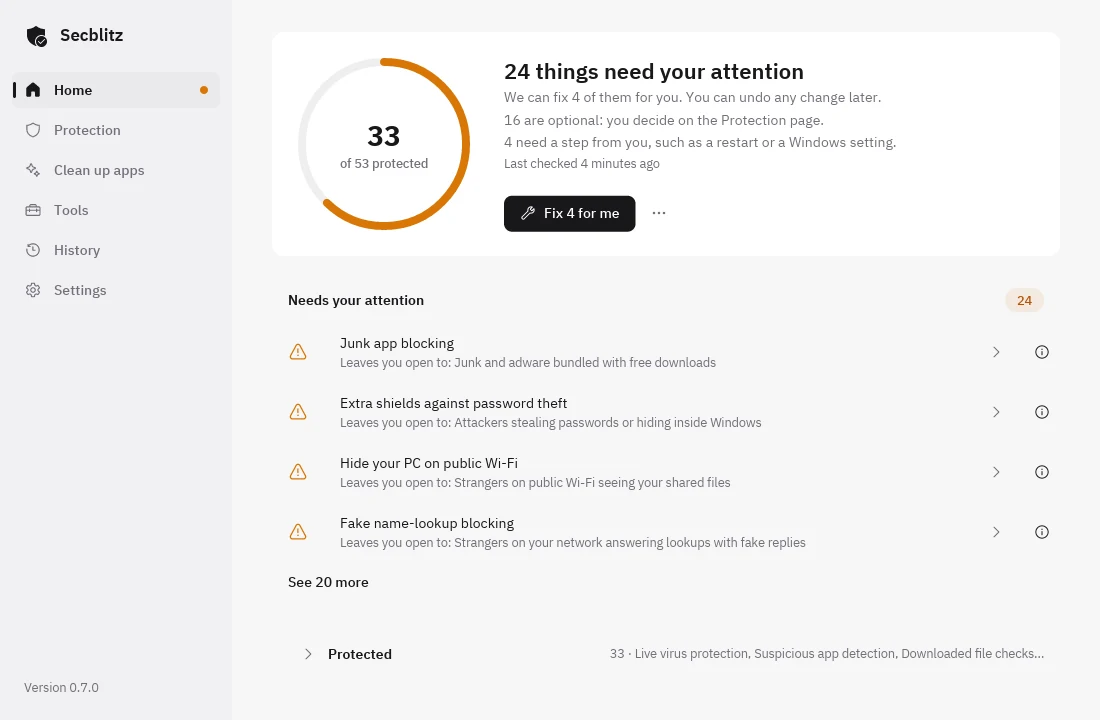
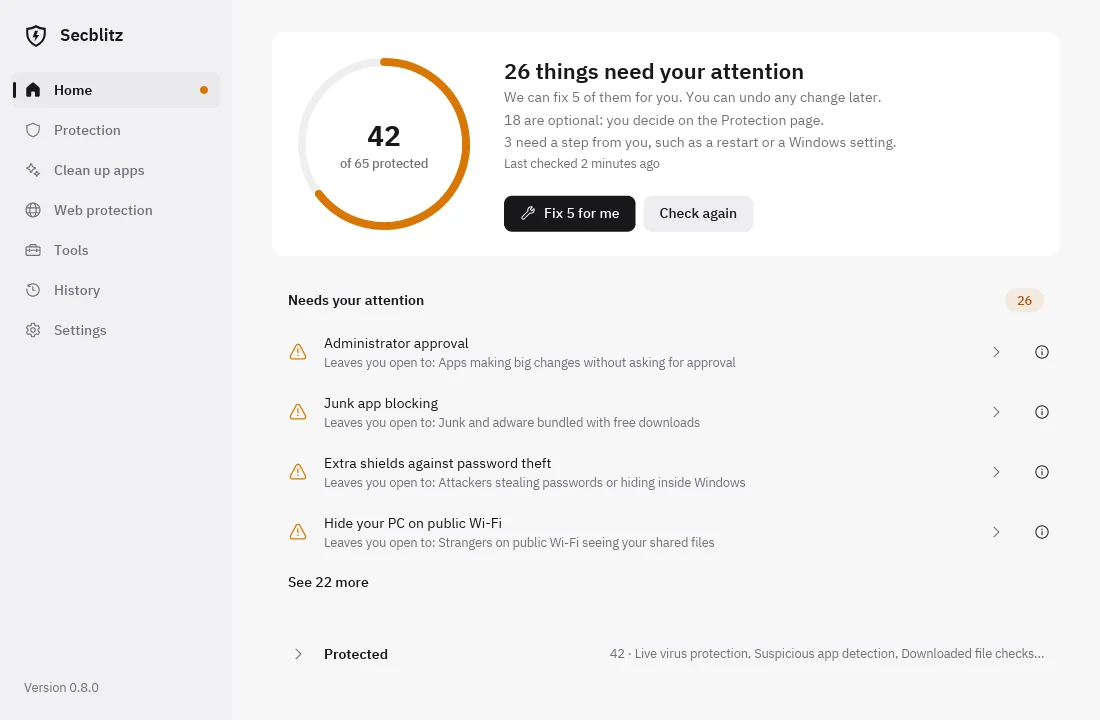
Release 0.8.0
Adds a dated changelog, website copy for web protection and app
removal, and a new favicon and screenshots.

diff --git a/website/index.html b/website/index.html
@@ -14,7 +14,7 @@
   <meta property="og:title" content="Secblitz: security, privacy and cleanup for your PC">
   <meta property="og:description" content="One app that keeps your Windows PC secure, private and clean. No technical knowledge needed.">
   <meta property="og:url" content="https://secblitz.lol/">
-  <meta property="og:image" content="https://secblitz.lol/assets/preview-b081691b149a.webp">
+  <meta property="og:image" content="https://secblitz.lol/assets/preview-92912b03eb97.webp">
   <meta property="og:image:alt" content="The Secblitz home screen">
   <link rel="icon" href="assets/favicon.svg" type="image/svg+xml">
   <link rel="preload" href="assets/fonts/ibm-plex-sans-400.woff2" as="font" type="font/woff2" crossorigin>
@@ -26,7 +26,7 @@
 <body>
   <!-- icons:start (generated by scripts/build-site-assets.py from src/gui/icons.rs) -->
   <svg class="sprite" width="0" height="0" aria-hidden="true">
-    <symbol id="i-brand" viewBox="0 0 24 24"><path d="M3 5.75C3 5.33579 3.33579 5 3.75 5C6.41341 5 9.00797 4.05652 11.55 2.15C11.8167 1.95 12.1833 1.95 12.45 2.15C14.992 4.05652 17.5866 5 20.25 5C20.6642 5 21 5.33579 21 5.75V11C21 11.3381 20.9865 11.6701 20.9595 11.9961C19.9577 11.3651 18.7715 11 17.5 11C13.9101 11 11 13.9101 11 17.5C11 19.151 11.6156 20.6583 12.6297 21.8048C12.5126 21.8531 12.3944 21.9007 12.2749 21.9478C12.0982 22.0174 11.9018 22.0174 11.7251 21.9478C5.95756 19.6757 3 16.0012 3 11V5.75ZM23 17.5C23 14.4624 20.5376 12 17.5 12C14.4624 12 12 14.4624 12 17.5C12 20.5376 14.4624 23 17.5 23C20.5376 23 23 20.5376 23 17.5ZM20.8536 15.1464C21.0488 15.3417 21.0488 15.6583 20.8536 15.8536L16.8536 19.8536C16.6583 20.0488 16.3417 20.0488 16.1464 19.8536L14.1464 17.8536C13.9512 17.6583 13.9512 17.3417 14.1464 17.1464C14.3417 16.9512 14.6583 16.9512 14.8536 17.1464L16.5 18.7929L20.1464 15.1464C20.3417 14.9512 20.6583 14.9512 20.8536 15.1464Z" fill="currentColor"/></symbol>
+    <symbol id="i-brand" viewBox="0 0 24 24"><path fill-rule="evenodd" d="M12 1Q7.95 3.66 2.14 3.91L2.14 9.34Q2.14 18.45 12 23Q21.86 18.45 21.86 9.34L21.86 3.91Q16.05 3.66 12 1ZM12 3.66Q8.59 5.68 4.29 5.93L4.29 9.47Q4.29 16.8 12 20.72Q19.71 16.8 19.71 9.47L19.71 5.93Q15.41 5.68 12 3.66ZM10.99 6.74L13.9 6.74L12.44 10.95L15.21 10.95L10.41 17.64L11.43 13.28L8.66 13.28Z" fill="currentColor"/></symbol>
     <symbol id="i-shield-check" viewBox="0 0 24 24"><path d="M3 5.75C3 5.33579 3.33579 5 3.75 5C6.41341 5 9.00797 4.05652 11.55 2.15C11.8167 1.95 12.1833 1.95 12.45 2.15C14.992 4.05652 17.5866 5 20.25 5C20.6642 5 21 5.33579 21 5.75V11C21 11.3381 20.9865 11.6701 20.9595 11.9961C20.5062 11.7106 20.0152 11.4795 19.4955 11.3121C19.4985 11.2087 19.5 11.1047 19.5 11V6.47793C16.9227 6.32585 14.4192 5.38829 12 3.67782C9.58084 5.38829 7.07735 6.32585 4.5 6.47793V11C4.5 15.1488 6.83178 18.2214 11.625 20.2846C11.8882 20.839 12.2276 21.3503 12.6297 21.8048C12.5126 21.8531 12.3944 21.9007 12.2749 21.9478C12.0982 22.0174 11.9018 22.0174 11.7251 21.9478C5.95756 19.6757 3 16.0012 3 11V5.75ZM23 17.5C23 20.5376 20.5376 23 17.5 23C14.4624 23 12 20.5376 12 17.5C12 14.4624 14.4624 12 17.5 12C20.5376 12 23 14.4624 23 17.5ZM20.8536 15.1464C20.6583 14.9512 20.3417 14.9512 20.1464 15.1464L16.5 18.7929L14.8536 17.1464C14.6583 16.9512 14.3417 16.9512 14.1464 17.1464C13.9512 17.3417 13.9512 17.6583 14.1464 17.8536L16.1464 19.8536C16.3417 20.0488 16.6583 20.0488 16.8536 19.8536L20.8536 15.8536C21.0488 15.6583 21.0488 15.3417 20.8536 15.1464Z" fill="currentColor"/></symbol>
     <symbol id="i-scan" viewBox="0 0 24 24"><path d="M12 2C17.5228 2 22 6.47715 22 12C22 17.5228 17.5228 22 12 22C6.47715 22 2 17.5228 2 12C2 6.47715 6.47715 2 12 2ZM15.2502 14.3322L15.2115 14.4042L15.1479 14.4954L10.3911 20.3479C10.9121 20.4478 11.4499 20.5 12 20.5C14.171 20.5 16.1518 19.6861 17.6541 18.3468L15.57 13.8062C15.4767 13.9901 15.3696 14.1659 15.2502 14.3322ZM4.4903 15.9854C5.42691 17.7466 6.96494 19.1392 8.83046 19.8894L11.991 16L11.8004 15.9951L11.669 15.9865L4.4903 15.9854ZM20.1301 9.51192H15.1322C15.2138 9.61455 15.2905 9.72128 15.3619 9.83176C15.3864 9.85886 15.4088 9.8889 15.4291 9.92091L15.4778 10.0105L15.5168 10.0926C15.6029 10.251 15.6786 10.4158 15.743 10.5862L18.7588 17.1552C19.8511 15.7253 20.5 13.9384 20.5 12C20.5 11.1343 20.3706 10.2989 20.1301 9.51192ZM3.5 12C3.5 12.8649 3.62919 13.6997 3.86932 14.486H8.86618C8.7844 14.3831 8.70759 14.276 8.6361 14.1652L8.50085 13.9432L4.88651 7.34546C4.00985 8.68254 3.5 10.2817 3.5 12ZM10.0198 10.4737L9.9755 10.5454C9.95359 10.5796 9.92937 10.6114 9.90318 10.6407C9.64761 11.0317 9.5 11.4986 9.5 12C9.5 13.2943 10.4835 14.3588 11.744 14.487H12.256C13.5165 14.3588 14.5 13.2943 14.5 12C14.5 10.6985 13.5055 9.62934 12.235 9.5109L11.8623 9.51285L11.8043 9.50755C11.0785 9.56375 10.4396 9.92987 10.0198 10.4737ZM12 3.5C9.60862 3.5 7.4479 4.48753 5.90339 6.07704L8.30536 10.4644C8.43215 10.1597 8.59554 9.87405 8.79004 9.61292L12.6939 3.52791C12.465 3.50942 12.2336 3.5 12 3.5ZM11.5942 8.02033C11.7277 8.00689 11.863 8 12 8C12.1026 8 12.2043 8.00386 12.305 8.01146L19.5086 8.01265C18.4758 6.07167 16.7123 4.57858 14.5851 3.90024L14.2928 3.81283L11.5942 8.02033Z" fill="currentColor"/></symbol>
     <symbol id="i-wrench" viewBox="0 0 24 24"><path d="M11.0002 7.5C11.0002 4.46243 13.4627 2 16.5002 2C17.267 2 17.999 2.15735 18.6641 2.44223C18.8929 2.54023 19.0582 2.74534 19.1053 2.98974C19.1524 3.23414 19.0751 3.48599 18.8991 3.66198L16.3111 6.25L17.7505 7.68934L20.3384 5.10142C20.5144 4.92542 20.7663 4.8482 21.0107 4.8953C21.2551 4.94241 21.4602 5.10771 21.5582 5.33652C21.8429 6.00153 22.0002 6.73337 22.0002 7.5C22.0002 10.5376 19.5378 13 16.5002 13C16.058 13 15.6272 12.9477 15.214 12.8486L6.90165 21.1609C5.78033 22.2823 3.96231 22.2823 2.84099 21.1609C1.71967 20.0396 1.71967 18.2216 2.84099 17.1003L11.1523 8.78899C11.0528 8.37496 11.0002 7.94322 11.0002 7.5ZM16.5002 3.5C14.2911 3.5 12.5002 5.29086 12.5002 7.5C12.5002 7.94506 12.5726 8.37169 12.7057 8.76964C12.7959 9.0393 12.7258 9.33677 12.5248 9.53783L3.90165 18.1609C3.36612 18.6965 3.36612 19.5648 3.90165 20.1003C4.43718 20.6358 5.30546 20.6358 5.84099 20.1003L14.465 11.4763C14.6659 11.2754 14.9632 11.2053 15.2327 11.2952C15.6301 11.4279 16.056 11.5 16.5002 11.5C18.7094 11.5 20.5002 9.70914 20.5002 7.5C20.5002 7.35886 20.4929 7.21955 20.4787 7.08239L18.6344 8.92678C18.1462 9.41493 17.3547 9.41493 16.8666 8.92678L15.0737 7.13388C14.5855 6.64573 14.5855 5.85427 15.0737 5.36612L16.9183 3.52153C16.781 3.5073 16.6415 3.5 16.5002 3.5Z" fill="currentColor"/></symbol>
@@ -83,7 +83,7 @@
         <h1 id="hero-title">A safer PC,<br>without the headaches.</h1>
         <p class="lead">Security, privacy and cleanup for Windows, all in one app. Secblitz checks your PC, tells you in plain language what needs fixing, and fixes it when you say yes. No technical knowledge needed.</p>
         <div class="cta">
-          <a class="button" href="downloads/secblitz-0.7.0-windows-x64-setup.exe" download>
+          <a class="button" href="downloads/secblitz-0.8.0-windows-x64-setup.exe" download>
             <svg class="icon" aria-hidden="true"><use href="#i-download"/></svg>Download for Windows
           </a>
           <a class="button button-quiet" href="#how">See how it works</a>
@@ -103,7 +103,7 @@
         <li><svg class="icon" aria-hidden="true"><use href="#i-shield-check"/></svg><span><strong>You stay in control.</strong> Secblitz never changes anything without asking you first.</span></li>
         <li><svg class="icon" aria-hidden="true"><use href="#i-undo"/></svg><span><strong>Every change can be undone.</strong> Your original settings are saved before anything changes.</span></li>
         <li><svg class="icon" aria-hidden="true"><use href="#i-eye-off"/></svg><span><strong>Your data stays on your PC.</strong> No account, no ads and no tracking.</span></li>
-        <li><svg class="icon" aria-hidden="true"><use href="#i-check-circle"/></svg><span><strong>Built on Windows protection.</strong> It turns on the security Windows already has instead of adding more software.</span></li>
+        <li><svg class="icon" aria-hidden="true"><use href="#i-check-circle"/></svg><span><strong>Built on Windows protection.</strong> It turns on the security Windows already has, instead of replacing it.</span></li>
       </ul>
     </section>
 
@@ -218,6 +218,7 @@
         <p>The everyday tasks that keep a PC secure and running well, in one place.</p>
       </div>
       <ul class="rows">
+        <li><svg class="icon" aria-hidden="true"><use href="#i-globe"/></svg><div><h3>Web protection</h3><p>Block ads, trackers and known dangerous websites in every browser and app on your PC. If a site you trust is blocked, pause it for an hour.</p></div></li>
         <li><svg class="icon" aria-hidden="true"><use href="#i-sparkles"/></svg><div><h3>Clean up apps</h3><p>Remove apps that came with Windows and that you don't use. Secblitz keeps a copy of each one, so you can bring it back at any time, even without internet.</p></div></li>
         <li><svg class="icon" aria-hidden="true"><use href="#i-bug"/></svg><div><h3>Virus scan and protection updates</h3><p>Run a Microsoft Defender scan and update its virus definitions without opening Windows Security.</p></div></li>
         <li><svg class="icon" aria-hidden="true"><use href="#i-wrench"/></svg><div><h3>Repair Windows</h3><p>Find and repair damaged Windows system files with Windows' built-in tools.</p></div></li>
@@ -256,11 +257,15 @@
         </details>
         <details>
           <summary>Is my data private?<svg class="icon chevron" aria-hidden="true"><use href="#i-chevron-down"/></svg></summary>
-          <p>Yes. Your results, history and settings stay on your PC. There's no account, no ads and no tracking. Secblitz only connects to the internet to update itself and to download things you ask for.</p>
+          <p>Yes. Your results, history and settings stay on your PC. There's no account, no ads and no tracking. Secblitz only connects to the internet to update itself and to download things you ask for. With web protection on, it also downloads its block lists once a day.</p>
         </details>
         <details>
           <summary>How does it update?<svg class="icon chevron" aria-hidden="true"><use href="#i-chevron-down"/></svg></summary>
           <p>Automatically, in the background. Every update is signed, and Secblitz verifies the signature before installing it. It never closes while you're using it and never restarts your PC.</p>
+        </details>
+        <details>
+          <summary>What happens if I remove Secblitz?<svg class="icon chevron" aria-hidden="true"><use href="#i-chevron-down"/></svg></summary>
+          <p>You choose. Keep the safer settings Secblitz made, or put everything back the way it was before, including the apps you removed. Either way, Secblitz removes itself completely.</p>
         </details>
         <details>
           <summary>Which languages and Windows versions work?<svg class="icon chevron" aria-hidden="true"><use href="#i-chevron-down"/></svg></summary>
@@ -274,18 +279,18 @@
         <svg class="download-mark" aria-hidden="true"><use href="#i-brand"/></svg>
         <h2 id="download-title">Check your PC for free.</h2>
         <p>The check takes about a minute and doesn't change anything.</p>
-        <a class="button" href="downloads/secblitz-0.7.0-windows-x64-setup.exe" download>
+        <a class="button" href="downloads/secblitz-0.8.0-windows-x64-setup.exe" download>
           <svg class="icon" aria-hidden="true"><use href="#i-download"/></svg>Download for Windows
         </a>
         <p class="meta">Free · Windows 11, 64-bit</p>
         <details class="download-details">
           <summary>Download details<svg class="icon chevron" aria-hidden="true"><use href="#i-chevron-down"/></svg></summary>
           <div class="details-body">
-            <p>Version 0.7.0 · 8.2 MB installer</p>
+            <p>Version 0.8.0 · 8.2 MB installer</p>
             <p>The first time you run it, Windows may warn that the publisher is unknown. Select More info, then Run anyway. The checksum below lets you confirm the file is the one we published.</p>
             <div class="hash">
               <span class="hash-label">SHA-256</span>
-              <code id="sha">2d01dba23210c797c9f99bc56c9b4c72a0d6325905288786564570e9bc21770b</code>
+              <code id="sha">0000000000000000000000000000000000000000000000000000000000000000</code>
               <button type="button" class="button button-quiet button-small" id="copy-sha" data-copy="sha">Copy</button>
             </div>
           </div>

diff --git a/scripts/build-site-assets.py b/scripts/build-site-assets.py
@@ -8,7 +8,8 @@ Run: python3 scripts/build-site-assets.py [--check]
   the site always uses the exact glyphs the app draws.
 * Font: IBM Plex Sans (assets/fonts, SIL OFL) is subset to Latin and saved as
   WOFF2 under website/assets/fonts.
-* Favicon: the app's window icon (white shield and tick on a #18181B tile).
+* Favicon: the app's small-size icon (white shield and bolt on a #18181B tile),
+  from assets/secblitz-small.svg.
 
 --check exits non-zero when any generated file is out of date.
 """
@@ -127,11 +128,17 @@ def fonts():
     return out
 
 
-FAVICON = """<svg xmlns="http://www.w3.org/2000/svg" viewBox="0 0 24 24">
-  <rect width="24" height="24" rx="5" fill="#18181B"/>
-  <path fill="#FFFFFF" fill-rule="evenodd" d="M12 2.5 19.5 5.5V12L18 15.8 15 19 12 21.5 9 19 6 15.8 4.5 12V5.5Z M8.16 12.84 11 15.67 16.05 10.42 14.75 9.17 11 13.13 9.44 11.56Z"/>
-</svg>
-"""
+SMALL_ICON = ROOT / "assets/secblitz-small.svg"
+
+
+def favicon():
+    """The app's small-size icon (solid shield, bolt cut out), minus its size and text."""
+    svg = SMALL_ICON.read_text(encoding="utf-8")
+    shapes = re.findall(r"^\s*(<(?:rect|path)\b[^>]*/>)$", svg, re.MULTILINE)
+    if len(shapes) != 2:
+        sys.exit(f"{SMALL_ICON}: expected one rect and one path")
+    body = "".join(f"  {shape}\n" for shape in shapes)
+    return f'<svg xmlns="http://www.w3.org/2000/svg" viewBox="0 0 256 256">\n{body}</svg>\n'
 
 
 def main():
@@ -139,7 +146,7 @@ def main():
     ap.add_argument("--check", action="store_true")
     args = ap.parse_args()
 
-    wanted = {"assets/favicon.svg": FAVICON.encode()}
+    wanted = {"assets/favicon.svg": favicon().encode()}
     wanted.update(fonts())
     index = SITE / "index.html"
     wanted["index.html"] = inject(index.read_text(encoding="utf-8")).encode()

diff --git a/scripts/stage-pages.py b/scripts/stage-pages.py
@@ -22,7 +22,7 @@ spec.loader.exec_module(gate)
 # No recursive asset glob, extension-only allowlist, or source-selected manifest.
 STATIC = (
     "index.html", "404.html", "styles.css", "app.js", "theme.js", "_headers", "releases/stable.json",
-    "assets/favicon.svg", "assets/preview-b081691b149a.webp",
+    "assets/favicon.svg", "assets/preview-92912b03eb97.webp",
     "assets/app-home-light.webp", "assets/app-home-dark.webp",
     "assets/app-protection-light.webp", "assets/app-protection-dark.webp",
     "assets/fonts/ibm-plex-sans-400.woff2", "assets/fonts/ibm-plex-sans-500.woff2",
@@ -34,7 +34,7 @@ LEGACY_ASSETS = {
     "assets/poster.webp", "assets/preview-33b342ab21fb.webp", "assets/secblitz-demo.mp4", "assets/intro-6bb434a9c067.mp4",
     "assets/secblitz.svg", "assets/fonts/schibsted-grotesk-latin.woff2", "assets/fonts/OFL.txt",
     "assets/intro-a18b68fac12f.mp4", "assets/intro-a8f1e9ace5d9.webm",
-    "assets/preview-541ff80cb74f.webp", "assets/home-dark-1215a72074e4.webp",
+    "assets/preview-541ff80cb74f.webp", "assets/home-dark-1215a72074e4.webp", "assets/preview-b081691b149a.webp",
 }
 # Preserve already published immutable URLs. New historical versions require review.
 HISTORICAL = (
@@ -46,6 +46,7 @@ HISTORICAL = (
     "secblitz-0.5.0-windows-x64-setup.exe", "secblitz-0.5.0-windows-x64.exe",
     "secblitz-0.6.0-windows-x64-setup.exe", "secblitz-0.6.0-windows-x64.exe",
     "secblitz-0.6.1-windows-x64-setup.exe", "secblitz-0.6.1-windows-x64.exe",
+    "secblitz-0.7.0-windows-x64-setup.exe", "secblitz-0.7.0-windows-x64.exe",
 )
 
 

diff --git a/scripts/bump-version-tests.py b/scripts/bump-version-tests.py
@@ -180,6 +180,11 @@ class BumpTests(unittest.TestCase):
         self.assertEqual(stage.count(f"secblitz-{self.shown}-windows-x64-setup.exe"), 1)
 
     def test_site_only_changes_just_the_site_files(self):
+        if self.shown == self.old:
+            # Right after a release the site already shows the Cargo version: step it back.
+            for rel in ("README.md", "website/index.html", "website/structured.json"):
+                path = self.root / rel
+                path.write_text(path.read_text(encoding="utf-8").replace(self.shown, "0.0.1"), encoding="utf-8")
         before = self.snapshot()
         self.assertEqual(self.bump("9.8.7", "--site-only")[0], 1)  # not the Cargo version
         self.assertEqual(before, self.snapshot())

diff --git a/CHANGELOG.md b/CHANGELOG.md
@@ -9,7 +9,12 @@ dated version section when a release is prepared (see `docs/RELEASING.md`).
 
 ## [Unreleased]
 
+## [0.8.0] - 2026-10-06
+
 ### Added
+- **Web protection.** Secblitz can block ads, trackers and known dangerous websites for the whole PC. It runs as a small background service, keeps today's blocked counts, and offers "Try again" if it stops working.
+- **Remove Secblitz.** Settings now has a clear way to remove the app. You choose whether to keep the changes Secblitz made or put everything back the way it was, and the uninstaller cleans up after itself.
+- **Put everything back.** One step undoes every change in a single pass, including the apps you removed. Store apps are downloaded again when needed, and the progress bar keeps moving.
 - **Three more fixes you can choose, with undo.** Secblitz can now turn off automatic sign-in, stop Remote Desktop connections and switch off the very old file-sharing feature (SMB1) for you, instead of only telling you where to click. Each one is your choice, shows what will change, and can be undone from History. Remote Desktop is never turned off while you are connected remotely, and the old file sharing is left alone while something is using it.
 - **Core system protection, fixed for you.** Secblitz can now turn on Memory integrity and, once that runs, the extra kernel stack protection. It only offers this when your PC supports it, nothing manages it, nothing is locked, and none of your drivers look like they would stop working. You choose it, restart once, and can undo it. It is never offered inside a virtual machine. If it is not offered, Protection says why in plain words and names any driver it was unsure about. After the restart, Secblitz tells you if it is not running and offers the undo.
 - **Four more fixes you can approve.** Risky background program locations, firewall allowances for programs in Downloads or Desktop, redirected trusted websites in the hosts file, and risky start-up programs now appear under "Needs your attention". Each lists exactly what will change, switches things off instead of deleting them, and can be undone exactly. If anything changed again since, Secblitz leaves it alone and says so.
@@ -18,13 +23,6 @@ dated version section when a release is prepared (see `docs/RELEASING.md`).
 - **Remove found threats from Tools.** When Windows Security has found something harmful, the Tools page offers to remove it after a confirmation, and then says whether everything was removed, only part, or nothing could be removed.
 - **Recovery tools turned back on for you.** When the Windows recovery tools are off but Windows still has their files, Protection offers to turn them back on with Windows' own tool, and the "Recovery tools" health tip has a "Review fix" button. Nothing else about your drives or start-up is touched, and undo turns them off again. If the files are gone, Protection says so in plain words.
 - **Health tips point to the fix.** When Protection offers a fix for a health tip, the tip says so and has a "Review fix" button that opens the same review. Nothing changes until you agree. If the fix is not offered, "See why" shows the reason, and if Protection has not checked yet, "Check now" runs a check.
-
-## [0.8.0] - Unreleased
-
-### Added
-- **Web protection.** Secblitz can block ads, trackers and known dangerous websites for the whole PC. It runs as a small background service, keeps today's blocked counts, and offers "Try again" if it stops working.
-- **Remove Secblitz.** Settings now has a clear way to remove the app. You choose whether to keep the changes Secblitz made or put everything back the way it was, and the uninstaller cleans up after itself.
-- **Put everything back.** One step undoes every change in a single pass, including the apps you removed. Store apps are downloaded again when needed, and the progress bar keeps moving.
 - **Windows file details.** The app and its Setup now show their name, version and copyright in Properties, Task Manager and security prompts.
 - A build pipeline on GitHub that builds the app from source, publishes checksums and can attach a proof of where each file was built.
 

diff --git a/README.md b/README.md
@@ -8,9 +8,9 @@ Security, privacy and cleanup for Windows, all in one app.
 
 Secblitz checks your Windows PC, tells you in plain language what needs fixing, and fixes it when you say yes. You don't need to know anything about computers.
 
-[**Download for Windows**](https://secblitz.lol/downloads/secblitz-0.7.0-windows-x64-setup.exe) · [Website](https://secblitz.lol) · [Security](#security) · [Contributing](#contributing)
+[**Download for Windows**](https://secblitz.lol/downloads/secblitz-0.8.0-windows-x64-setup.exe) · [Website](https://secblitz.lol) · [Security](#security) · [Contributing](#contributing)
 
-![Version 0.7.0](https://img.shields.io/badge/version-0.7.0-18181B) ![Windows 11, 64-bit](https://img.shields.io/badge/Windows%2011-64--bit-18181B) ![MIT license](https://img.shields.io/badge/license-MIT-18181B)
+![Version 0.8.0](https://img.shields.io/badge/version-0.8.0-18181B) ![Windows 11, 64-bit](https://img.shields.io/badge/Windows%2011-64--bit-18181B) ![MIT license](https://img.shields.io/badge/license-MIT-18181B)
 
 <picture>
   <source media="(prefers-color-scheme: dark)" srcset="website/assets/app-home-dark.webp">
@@ -41,12 +41,12 @@ Secblitz is not an antivirus. It makes sure the protection Windows already gives
 
 ## Install
 
-Download the [installer](https://secblitz.lol/downloads/secblitz-0.7.0-windows-x64-setup.exe) (8.2 MB) and run it. Secblitz asks for administrator permission when it opens, because reading and changing security settings needs it.
+Download the [installer](https://secblitz.lol/downloads/secblitz-0.8.0-windows-x64-setup.exe) (8.2 MB) and run it. Secblitz asks for administrator permission when it opens, because reading and changing security settings needs it.
 
 The installer is not code-signed yet, so Windows may say the publisher is unknown. Choose **More info**, then **Run anyway**. To confirm you have the exact published file, compare its SHA-256 with the one on the [download page](https://secblitz.lol/#download):
 
 ```powershell
-Get-FileHash .\secblitz-0.7.0-windows-x64-setup.exe -Algorithm SHA256
+Get-FileHash .\secblitz-0.8.0-windows-x64-setup.exe -Algorithm SHA256
 ```
 
 Tested on Windows 11, 64-bit. Windows 10 is not tested.
